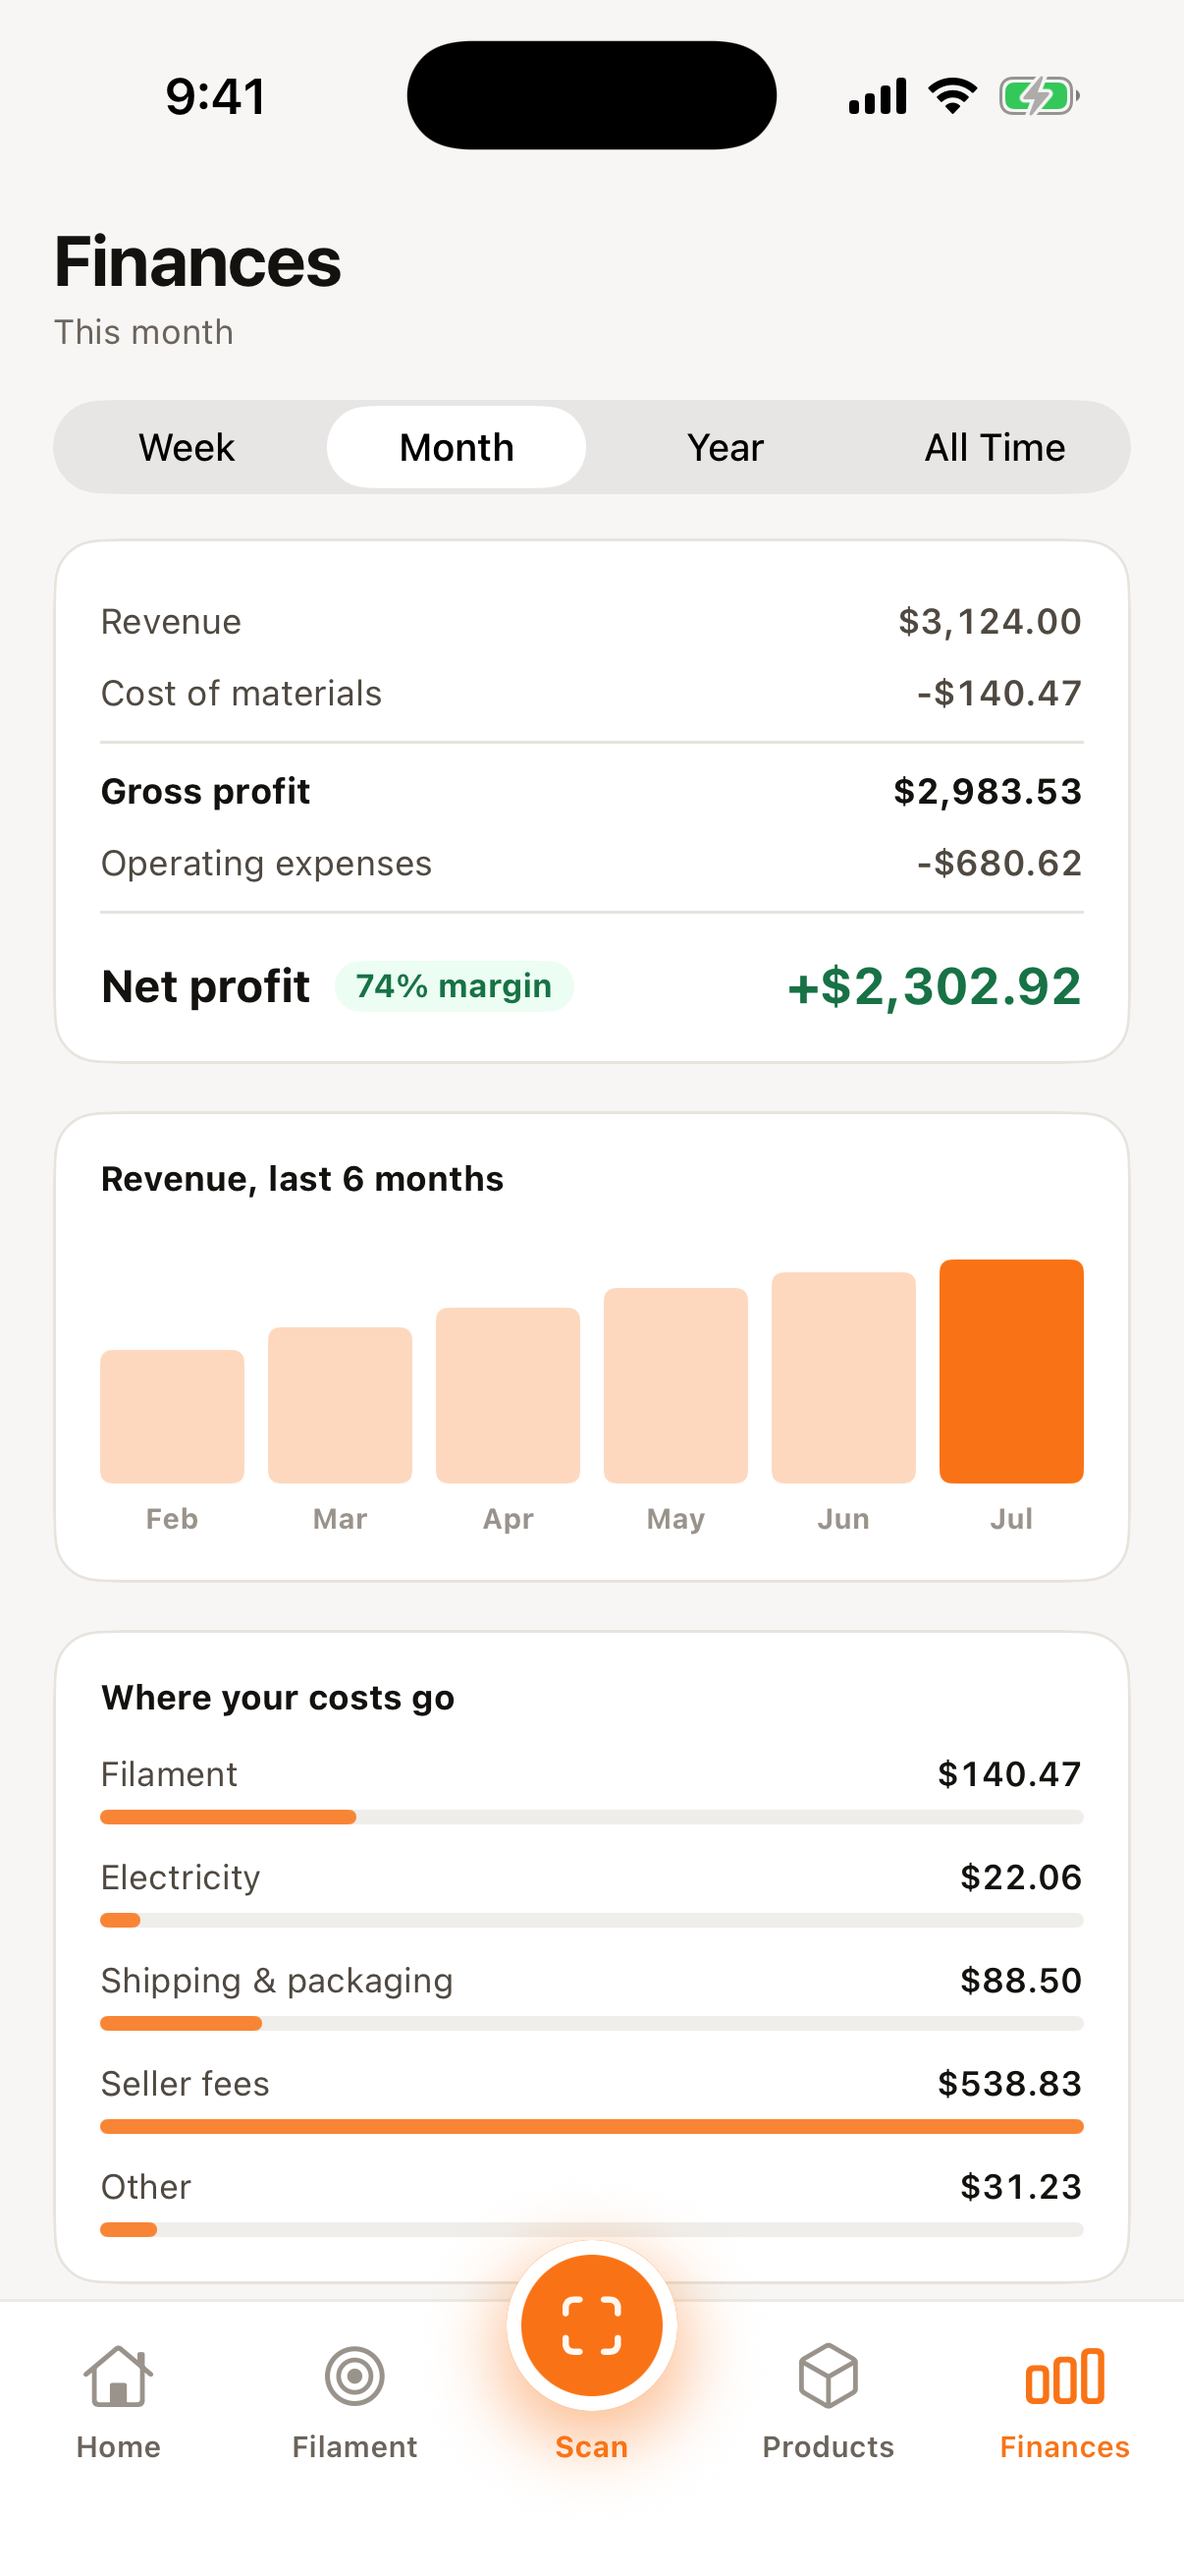
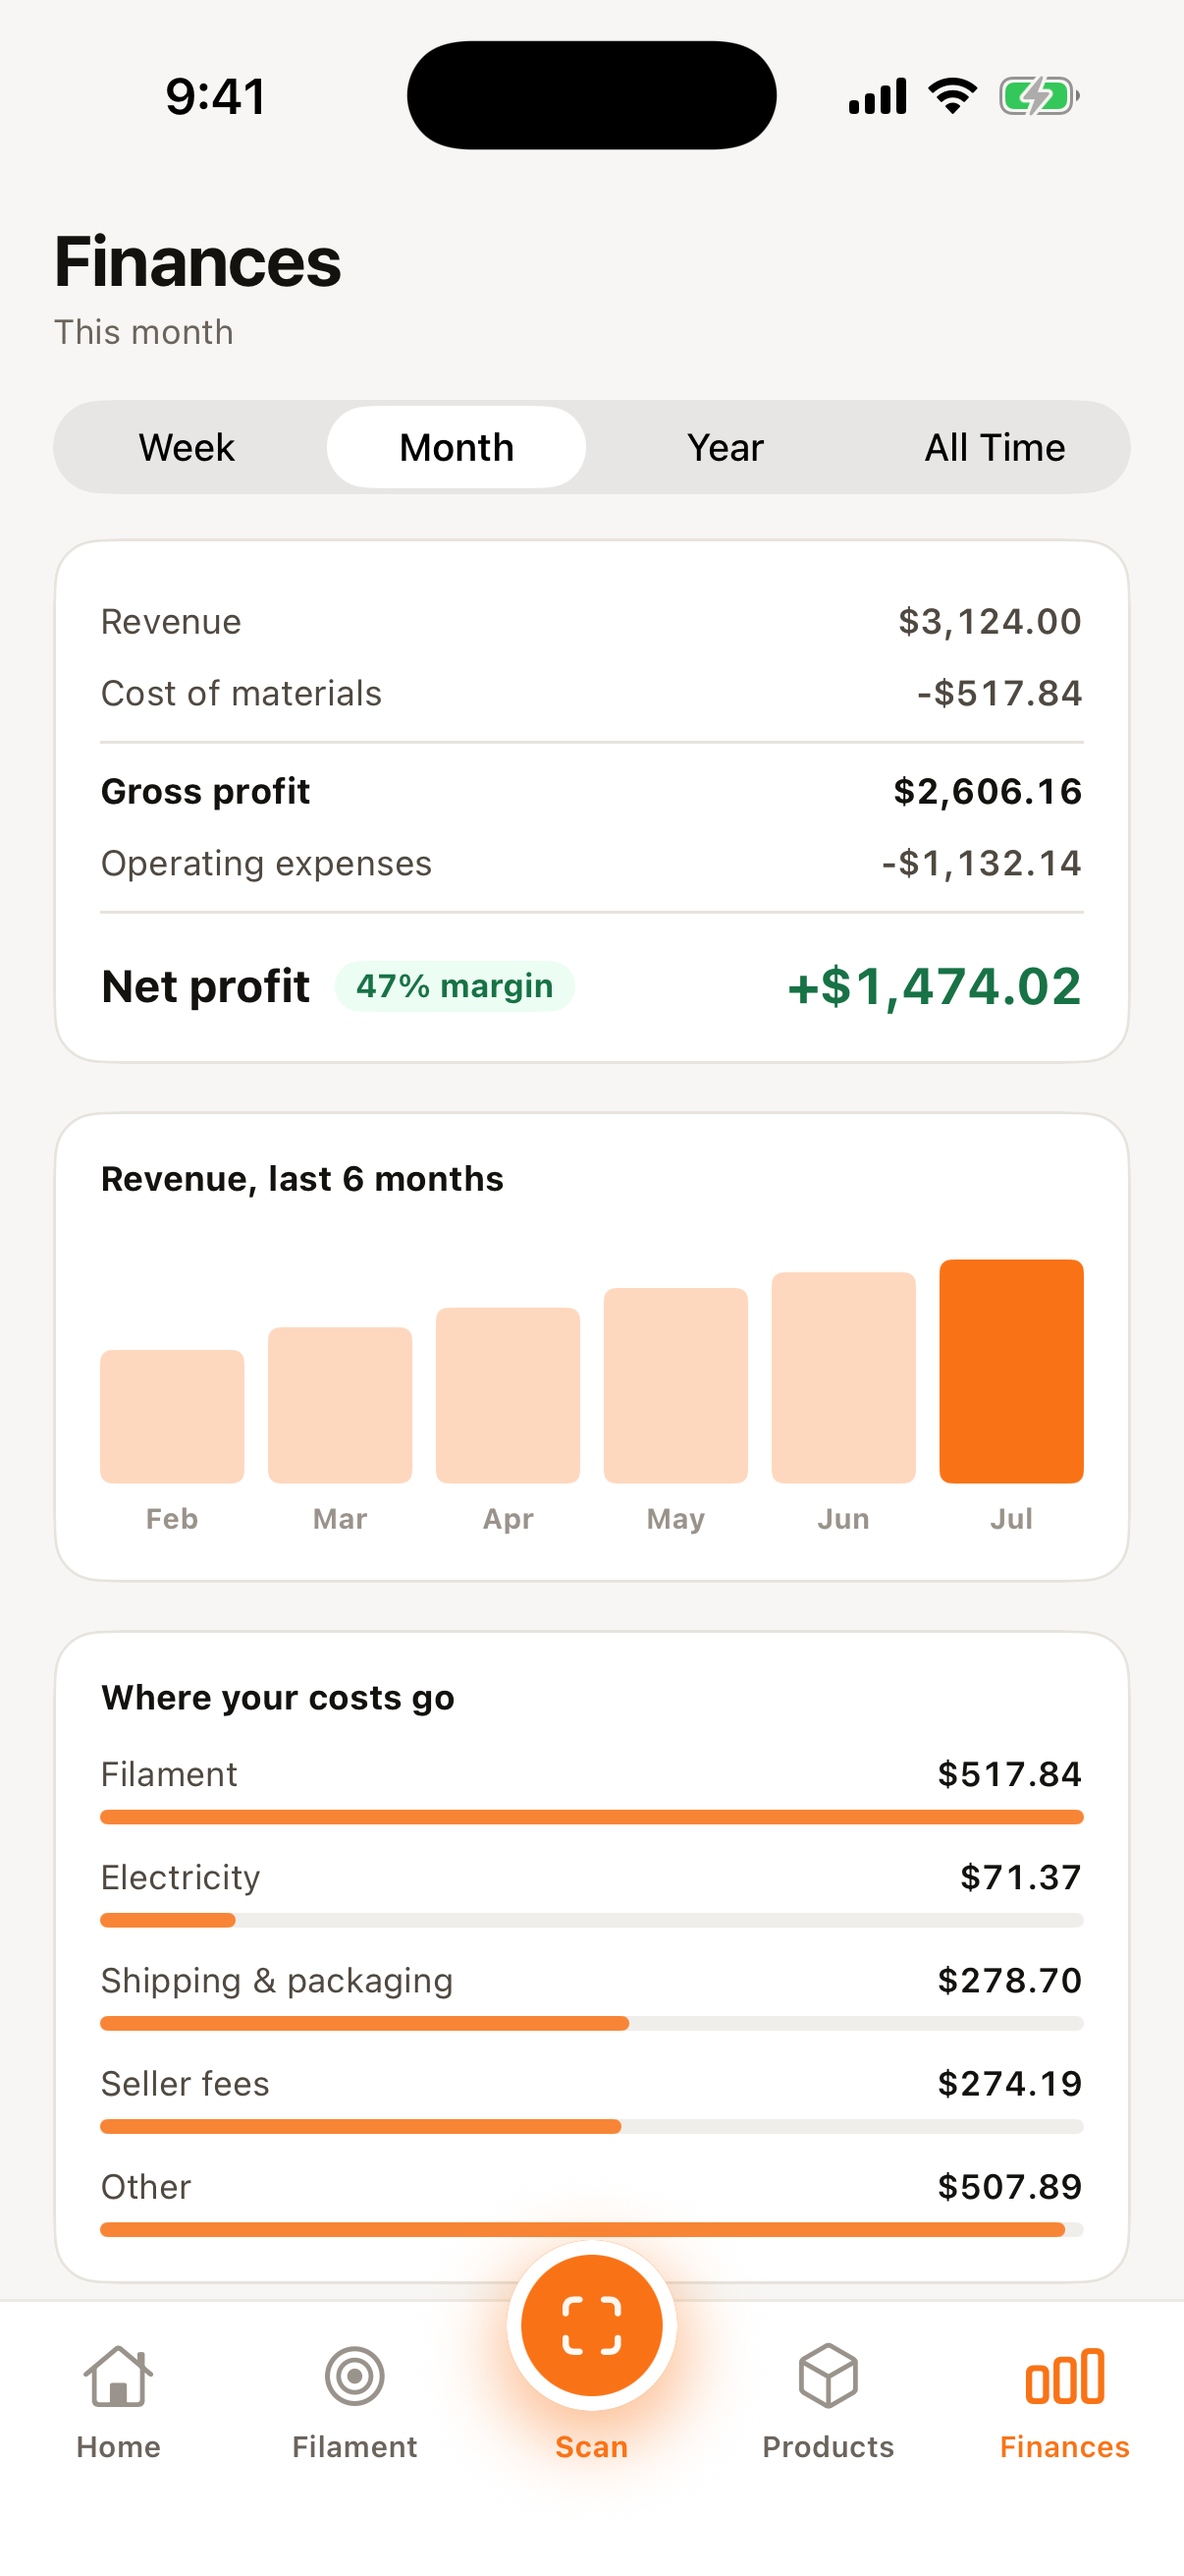
Receipt: itemize real product cost — nothing hidden
Product cost on the hero receipt is now $11.13 broken out into filament,
electricity, packaging, and a named labor line, with the honest net
($9.19, 33%) that follows. The demo dataset behind all three screenshots
carries the same real COGS (labor on every product, $0.06/h electricity,
per-product packaging), so Finances shows the matching month: $3,124
revenue, +$1,474.02 net at 47%. Sale detail in the app now itemizes
per-product custom costs by name instead of lumping them as "Other".

diff --git a/index.html b/index.html
@@ -233,8 +233,12 @@
           <div class="pl child"><span>Payment processing</span><span>−$1.26</span></div>
           <div class="pl child"><span>Transaction fee (shipping)</span><span>−$0.37</span></div>
           <div class="pl child"><span>Listing fee</span><span>−$0.20</span></div>
-          <div class="pl"><span>Product cost</span><span class="n">−$2.75</span></div>
-          <div class="pl sum"><span>Net profit · 63% margin</span><b>$17.57</b></div>
+          <div class="pl"><span>Product cost</span><span class="n">−$11.13</span></div>
+          <div class="pl child"><span>Filament</span><span>−$4.18</span></div>
+          <div class="pl child"><span>Electricity</span><span>−$0.60</span></div>
+          <div class="pl child"><span>Shipping &amp; packaging</span><span>−$1.95</span></div>
+          <div class="pl child"><span>Labor &amp; finishing</span><span>−$4.40</span></div>
+          <div class="pl sum"><span>Net profit · 33% margin</span><b>$9.19</b></div>
         </div>
       </div>
     </div>
